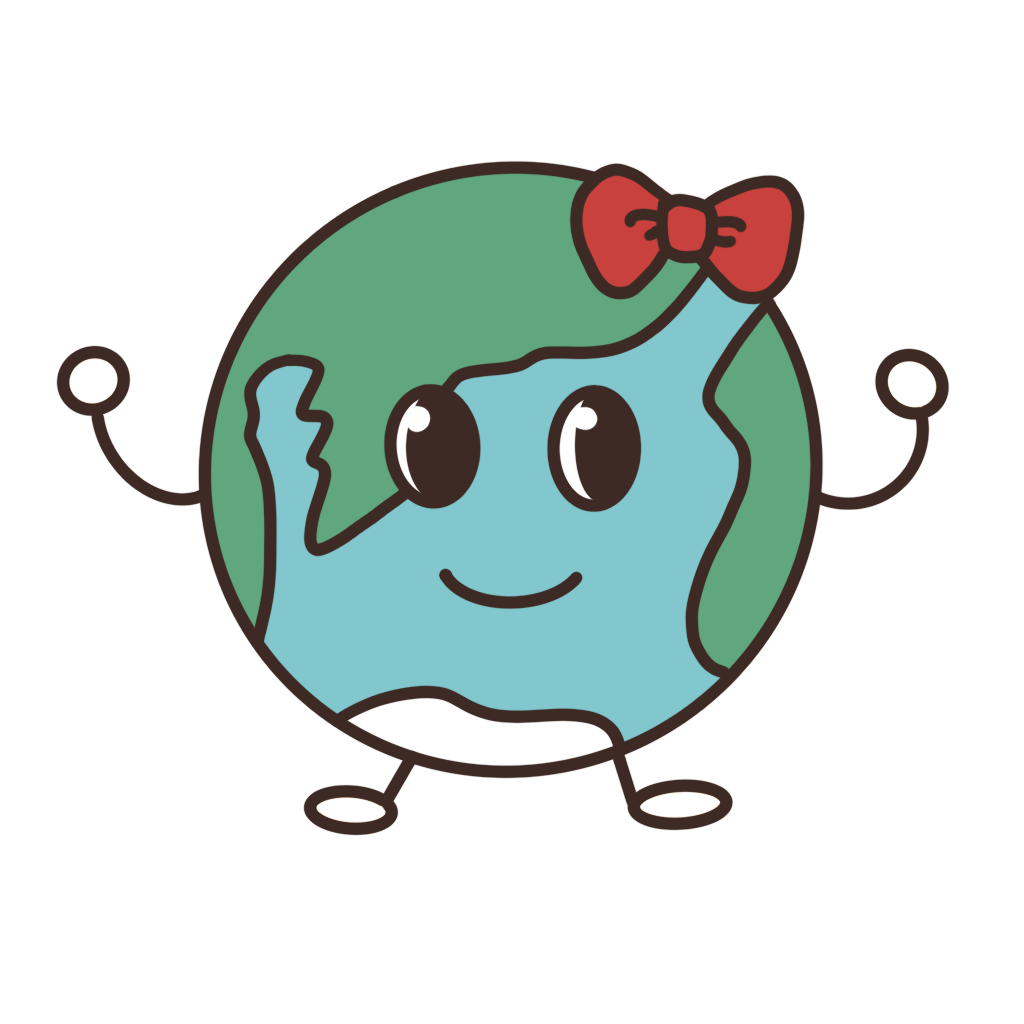
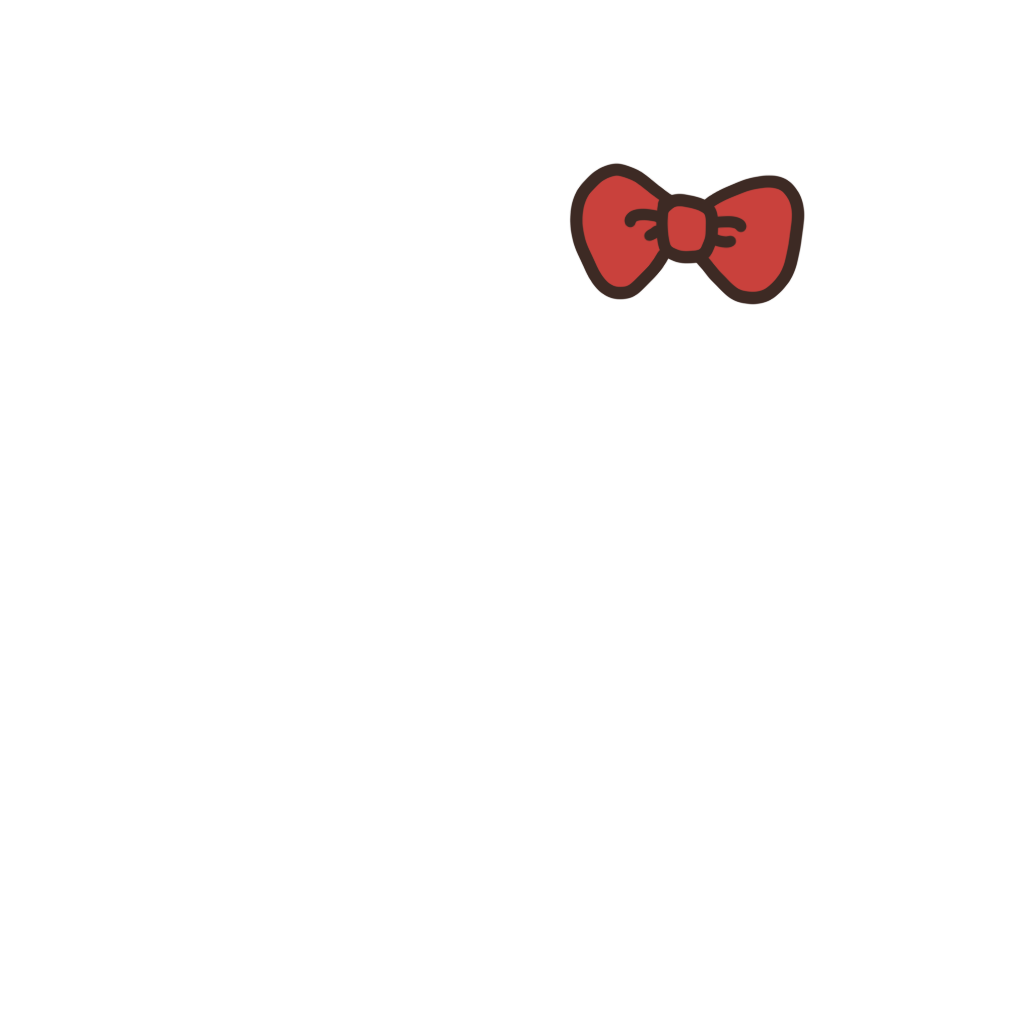
eco deco

Changed region(s): [[0.0312, 0.1562, 0.9375, 0.8125]]

diff --git a/lib/screens/deco_screen.dart b/lib/screens/deco_screen.dart
@@ -1,0 +1,302 @@
+import 'package:flutter/material.dart';
+
+class DecoScreen extends StatefulWidget {
+  const DecoScreen({super.key});
+
+  @override
+  State<DecoScreen> createState() => _DecoScreenState();
+}
+
+class _DecoScreenState extends State<DecoScreen> {
+  int _selectedIndex = 0; // 현재 선택된 탭 (0: 치장 아이템, 1: 외형)
+  String eco = 'assets/images/icon.png';
+  String item = 'assets/images/basic.png';
+
+  @override
+  Widget build(BuildContext context) {
+    return Scaffold(
+        appBar: AppBar(
+          backgroundColor: Colors.transparent,
+          elevation: 0,
+          leading: IconButton(
+            icon: Icon(Icons.arrow_back, color: const Color(0xFF401D1D)),
+            onPressed: () {
+              Navigator.of(context).pop();
+            },
+          ),
+          title: const Text(
+            '에코 꾸미기',
+            style: TextStyle(
+              color: Color(0xFF401D1D),
+              fontWeight: FontWeight.bold,
+            ),
+          ),
+          centerTitle: true,
+        ),
+        body: Column(
+          children: [
+            SizedBox(height: 20),
+            Container(
+              child: ClipRRect(
+                  borderRadius: BorderRadius.circular(120),
+                  child: Stack(children: [
+                    Image.asset(
+                      eco,
+                      width: 250,
+                      height: 250,
+                      fit: BoxFit.cover,
+                    ),
+                    Image.asset(
+                      item,
+                      width: 250,
+                      height: 250,
+                      fit: BoxFit.cover,
+                    )
+                  ])),
+            ),
+            const Spacer(),
+            Row(
+              children: [
+                SizedBox(width: 30),
+                GestureDetector(
+                  onTap: () {
+                    setState(() {
+                      _selectedIndex = 0; // '치장 아이템' 선택
+                    });
+                  },
+                  child: Stack(children: [
+                    Container(
+                      width: 130,
+                      height: 40,
+                      decoration: BoxDecoration(
+                        color: _selectedIndex == 0
+                            ? Color(0xFFFFFAC8)
+                            : Color(0xFFFFD67D), // 선택된 색상
+                        borderRadius: const BorderRadius.only(
+                          topLeft: Radius.circular(20),
+                          topRight: Radius.circular(20),
+                        ),
+                      ),
+                      child: Center(
+                        child: Text('치장 아이템'),
+                      ),
+                    ),
+                  ]),
+                ),
+                GestureDetector(
+                  onTap: () {
+                    setState(() {
+                      _selectedIndex = 1; // '외형' 선택
+                    });
+                  },
+                  child: Container(
+                    width: 130,
+                    height: 40,
+                    decoration: BoxDecoration(
+                      color: _selectedIndex == 1
+                          ? Color(0xFFFFFAC8)
+                          : Color(0xFFFFD67D), // 선택된 색상
+                      borderRadius: const BorderRadius.only(
+                        topLeft: Radius.circular(20),
+                        topRight: Radius.circular(20),
+                      ),
+                    ),
+                    child: Center(
+                      child: Text('외형'),
+                    ),
+                  ),
+                ),
+              ],
+            ),
+            Container(
+              decoration: BoxDecoration(
+                borderRadius: const BorderRadius.only(
+                  topLeft: Radius.circular(40),
+                  topRight: Radius.circular(40),
+                ),
+                color: const Color(0xFFFFFAC8),
+              ),
+              height: 380,
+              child: Padding(
+                padding:
+                    const EdgeInsets.symmetric(horizontal: 20, vertical: 15),
+                child: IndexedStack(
+                  index: _selectedIndex,
+                  children: [
+                    // 첫 번째 Stack ('치장 아이템')
+                    Column(
+                      children: [
+                        Padding(
+                          padding: const EdgeInsets.symmetric(vertical: 15),
+                          child: Row(
+                            mainAxisAlignment: MainAxisAlignment.spaceBetween,
+                            children: [
+                              GestureDetector(
+                                  onTap: () {
+                                    setState(() {
+                                      item = 'assets/images/basic.png';
+                                    });
+                                  },
+                                  child: Column(children: [
+                                    Container(
+                                        decoration: BoxDecoration(
+                                            borderRadius:
+                                                BorderRadius.circular(20),
+                                            color: Colors.white),
+                                        child: ClipRRect(
+                                          borderRadius:
+                                              BorderRadius.circular(25),
+                                          child: Image.asset(
+                                            'assets/images/basic.png',
+                                            width: 110,
+                                          ),
+                                        )),
+                                    Text('아이템 빼기'),
+                                  ])),
+                              GestureDetector(
+                                  onTap: () {
+                                    setState(() {
+                                      item = 'assets/images/sunglass.png';
+                                    });
+                                  },
+                                  child: Column(children: [
+                                    Container(
+                                        decoration: BoxDecoration(
+                                            borderRadius:
+                                                BorderRadius.circular(20),
+                                            color: Colors.white),
+                                        child: ClipRRect(
+                                          borderRadius:
+                                              BorderRadius.circular(25),
+                                          child: Image.asset(
+                                            'assets/images/sunglass.png',
+                                            width: 110,
+                                          ),
+                                        )),
+                                    Text('선글라스'),
+                                  ])),
+                              GestureDetector(
+                                  onTap: () {
+                                    setState(() {
+                                      item = 'assets/images/sprout.png';
+                                    });
+                                  },
+                                  child: Column(children: [
+                                    Container(
+                                        decoration: BoxDecoration(
+                                            borderRadius:
+                                                BorderRadius.circular(20),
+                                            color: Colors.white),
+                                        child: ClipRRect(
+                                          borderRadius:
+                                              BorderRadius.circular(25),
+                                          child: Image.asset(
+                                            'assets/images/sprout.png',
+                                            width: 110,
+                                          ),
+                                        )),
+                                    Text('새싹'),
+                                  ])),
+                            ],
+                          ),
+                        ),
+                        Row(
+                            mainAxisAlignment: MainAxisAlignment.spaceBetween,
+                            children: [
+                              GestureDetector(
+                                onTap: () {
+                                  setState(() {
+                                    item = 'assets/images/rribon.png';
+                                  });
+                                },
+                                child: Column(
+                                  children: [
+                                    Container(
+                                        decoration: BoxDecoration(
+                                            borderRadius:
+                                                BorderRadius.circular(20),
+                                            color: Colors.white),
+                                        child: ClipRRect(
+                                          borderRadius:
+                                              BorderRadius.circular(25),
+                                          child: Image.asset(
+                                            'assets/images/rribon.png',
+                                            width: 110,
+                                          ),
+                                        )),
+                                    Text('리본'),
+                                  ],
+                                ),
+                              ),
+                            ])
+                      ],
+                    ),
+                    // 두 번째 Stack ('외형')
+                    Column(
+                      children: [
+                        Padding(
+                          padding: const EdgeInsets.symmetric(vertical: 15),
+                          child: Row(
+                            mainAxisAlignment: MainAxisAlignment.spaceBetween,
+                            children: [
+                              GestureDetector(
+                                  onTap: () {
+                                    setState(() {
+                                      eco = 'assets/images/icon.png';
+                                    });
+                                  },
+                                  child: Column(children: [
+                                    ClipRRect(
+                                      borderRadius: BorderRadius.circular(25),
+                                      child: Image.asset(
+                                        'assets/images/icon.png',
+                                        width: 110,
+                                      ),
+                                    ),
+                                    Text('기본'),
+                                  ])),
+                              GestureDetector(
+                                  onTap: () {
+                                    setState(() {
+                                      eco = 'assets/images/yeco.png';
+                                    });
+                                  },
+                                  child: Column(children: [
+                                    ClipRRect(
+                                      borderRadius: BorderRadius.circular(25),
+                                      child: Image.asset(
+                                        'assets/images/yeco.png',
+                                        width: 110,
+                                      ),
+                                    ),
+                                    Text('노란 에코'),
+                                  ])),
+                              GestureDetector(
+                                  onTap: () {
+                                    setState(() {
+                                      eco = 'assets/images/beco.png';
+                                    });
+                                  },
+                                  child: Column(children: [
+                                    ClipRRect(
+                                      borderRadius: BorderRadius.circular(25),
+                                      child: Image.asset(
+                                        'assets/images/beco.png',
+                                        width: 110,
+                                      ),
+                                    ),
+                                    Text('파란 에코'),
+                                  ])),
+                            ],
+                          ),
+                        ),
+                      ],
+                    ),
+                  ],
+                ),
+              ),
+            ),
+          ],
+        ));
+  }
+}

diff --git a/lib/screens/chatbot_screen.dart b/lib/screens/chatbot_screen.dart
@@ -1,5 +1,6 @@
 import 'dart:convert';
 import 'dart:io';
+import 'package:ecobean_frontend/screens/deco_screen.dart';
 import 'package:flutter/material.dart';
 import 'package:http/http.dart' as http;
 import 'package:http_parser/http_parser.dart';
@@ -203,11 +204,20 @@ class _ChatbotScreenState extends State<ChatbotScreen> {
                     crossAxisAlignment: CrossAxisAlignment.start,
                     children: [
                       if (isEcho) ...[
-                        const CircleAvatar(
-                          backgroundImage:
-                              AssetImage('assets/images/icon.png'), // 에코의 이미지
-                          radius: 20,
-                        ),
+                        GestureDetector(
+                            onTap: () {
+                              Navigator.push(
+                                context,
+                                MaterialPageRoute(
+                                  builder: (context) => DecoScreen(),
+                                ),
+                              );
+                            },
+                            child: const CircleAvatar(
+                              backgroundImage: AssetImage(
+                                  'assets/images/icon.png'), // 에코의 이미지
+                              radius: 20,
+                            )),
                         const SizedBox(width: 10),
                       ],
                       Flexible(

diff --git a/lib/screens/onboarding_screen.dart b/lib/screens/onboarding_screen.dart
@@ -16,9 +16,7 @@ class OnboardingScreen extends StatelessWidget {
                 'assets/images/environment-icon2.png',
                 height: 100,
               ),
-
               SizedBox(height: 10),
-
               Text(
                 '탄소중립\n지속 가능성을 손 안에 담다',
                 textAlign: TextAlign.center,
@@ -28,9 +26,7 @@ class OnboardingScreen extends StatelessWidget {
                   color: Color(0xFF401D1D),
                 ),
               ),
-
               SizedBox(height: 20),
-
               Text(
                 '에코콩',
                 textAlign: TextAlign.center,
